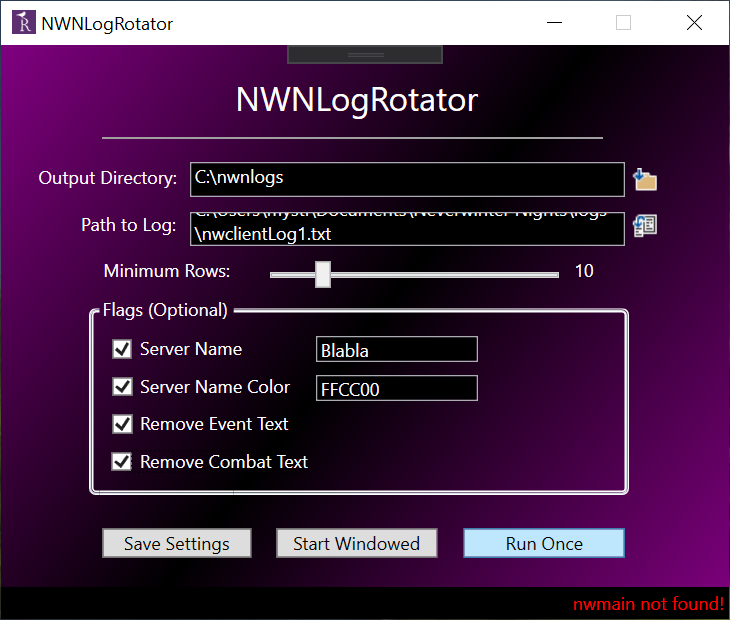
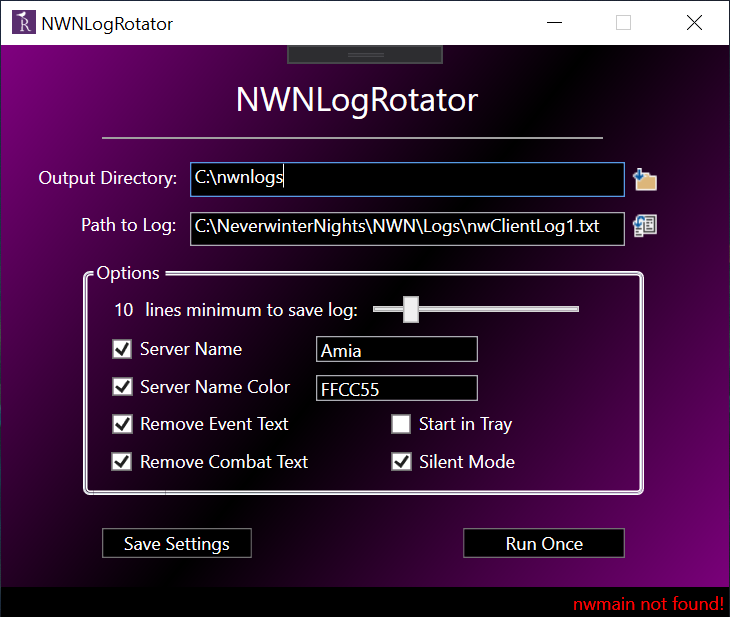
silent mode added, ui re-arranged

diff --git a/NWNLogRotator.xaml b/NWNLogRotator.xaml
@@ -29,7 +29,6 @@
         <CheckBox x:Name="ServerNameColorCheckBox" Content="Server Name Color" Grid.Column="2" HorizontalAlignment="Right" Margin="0,220,292.667,0" VerticalAlignment="Top" RenderTransformOrigin="0.522,-0.045" Checked="ServerNameColorCheckBox_Checked" Unchecked="ServerNameColorCheckBox_Unchecked"/>
         <CheckBox x:Name="ServerNameCheckBox" Content="Server Name" Grid.Column="2" HorizontalAlignment="Right" Margin="0,195,324.667,0" VerticalAlignment="Top" Checked="ServerNameCheckBox_Checked" Unchecked="ServerNameCheckBox_Unchecked"/>
         <Button x:Name="SaveSettingsButton" Content="Save Settings" Grid.Column="2" HorizontalAlignment="Left" Margin="14,322,0,0" VerticalAlignment="Top" Width="100" Click="Button_Click"/>
-        <Button x:Name="TrayButton" Content="" Grid.Column="2" HorizontalAlignment="Left" Margin="130,322,0,0" VerticalAlignment="Top" Width="108" RenderTransformOrigin="2.04,0.867" Click="Button_Click_2"/>
         <StatusBar HorizontalAlignment="Left" Height="31" Margin="0,361,-0.333,0" VerticalAlignment="Top" Width="495" Grid.ColumnSpan="3" Background="Black">
             <TextBlock x:Name="EventStatusTextBlock" TextWrapping="Wrap" Text="event.status" Width="191" RenderTransformOrigin="1.135,0.25" Height="29"/>
             <Separator Margin="0,0,0,-0.333" Width="166" Visibility="Hidden" />
@@ -41,5 +40,7 @@
         <ProgressBar x:Name="StatusBarProgressBar" Grid.Column="2" HorizontalAlignment="Left" Height="10" Margin="130,367,0,0" VerticalAlignment="Top" Width="108" IsIndeterminate="True" Visibility="Collapsed"/>
         <Image x:Name="OutputDirectoryButtonImage" Grid.Column="2" HorizontalAlignment="Left" Height="16" Margin="368,82,0,0" VerticalAlignment="Top" Width="16" RenderTransformOrigin="2.303,1.51" Source="Assets/Images/DownloadFolder_16x.png" MouseDown="Image_MouseDown"/>
         <Image x:Name="PathToLogButtonImage" Grid.Column="2" HorizontalAlignment="Left" Height="16" Margin="368,113,0,0" VerticalAlignment="Top" Width="16" RenderTransformOrigin="2.303,1.51" Source="Assets/Images/AssociationEditor_16x.png" MouseDown="Image_MouseDown2"/>
+        <CheckBox x:Name="TrayCheckBox" Content="Start in Tray" Grid.Column="2" HorizontalAlignment="Right" Margin="0,245,144.667,0" VerticalAlignment="Top" RenderTransformOrigin="0.618,0.109"/>
+        <CheckBox x:Name="SilentCheckBox" Content="Silent Mode" Grid.Column="2" HorizontalAlignment="Right" Margin="0,270,142.667,0" VerticalAlignment="Top" RenderTransformOrigin="0.618,0.109"/>
     </Grid>
 </Window>

diff --git a/NWNLogRotator.xaml.cs b/NWNLogRotator.xaml.cs
@@ -102,7 +102,8 @@ namespace NWNLogRotator
             bool EventText = EventTextCheckBox.IsChecked.GetValueOrDefault();
             bool CombatText = CombatTextCheckBox.IsChecked.GetValueOrDefault();
             string UseTheme = _settings.UseTheme;
-            bool Tray = _settings.Tray;
+            bool Silent = SilentCheckBox.IsChecked.GetValueOrDefault(); ;
+            bool Tray = TrayCheckBox.IsChecked.GetValueOrDefault();
 
             _settings = new Settings(OutputDirectory,
                                               PathToLog,
@@ -112,6 +113,7 @@ namespace NWNLogRotator
                                               EventText,
                                               CombatText,
                                               UseTheme,
+                                              Silent,
                                               Tray
                                             );
 
@@ -136,7 +138,6 @@ namespace NWNLogRotator
         {
             if (_settings.Tray == true)
             {
-                TrayButton.Content = "Start in Tray";
                 if (doMinimize == true)
                 {
                     WindowState = WindowState.Minimized;
@@ -145,7 +146,6 @@ namespace NWNLogRotator
             }
             else
             {
-                TrayButton.Content = "Start Windowed";
                 ni.Visible = false;
             }
         }
@@ -209,6 +209,8 @@ namespace NWNLogRotator
             }
             EventTextCheckBox.IsChecked = _settings.EventText;
             CombatTextCheckBox.IsChecked = _settings.CombatText;
+            SilentCheckBox.IsChecked = _settings.Silent;
+            TrayCheckBox.IsChecked = _settings.Tray;
 
             if (_settings.UseTheme == "light")
             {
@@ -233,8 +235,8 @@ namespace NWNLogRotator
 
             RunOnceButton.Background = Brushes.Black;
             RunOnceButton.Foreground = new SolidColorBrush(Colors.White);
-            TrayButton.Background = Brushes.Black;
-            TrayButton.Foreground = new SolidColorBrush(Colors.White);
+            TrayCheckBox.Foreground = new SolidColorBrush(Colors.White);
+            SilentCheckBox.Foreground = new SolidColorBrush(Colors.White);
             SaveSettingsButton.Background = Brushes.Black;
             SaveSettingsButton.Foreground = new SolidColorBrush(Colors.White);
             OutputDirectoryTextBox.Background = Brushes.Black;
@@ -265,8 +267,8 @@ namespace NWNLogRotator
 
             RunOnceButton.Background = Brushes.White;
             RunOnceButton.Foreground = new SolidColorBrush(Colors.Black);
-            TrayButton.Background = Brushes.White;
-            TrayButton.Foreground = new SolidColorBrush(Colors.Black);
+            TrayCheckBox.Foreground = new SolidColorBrush(Colors.Black);
+            SilentCheckBox.Foreground = new SolidColorBrush(Colors.Black);
             SaveSettingsButton.Background = Brushes.White;
             SaveSettingsButton.Foreground = new SolidColorBrush(Colors.Black);
             OutputDirectoryTextBox.Background = Brushes.White;
@@ -298,15 +300,22 @@ namespace NWNLogRotator
 
             if (_filepathandname != "")
             {
-                MessageBoxResult _messageBoxResult = MessageBox.Show("The log file has been generated successfully. Would you like to open the log file now?",
+                if(_settings.Silent == false)
+                {
+                    MessageBoxResult _messageBoxResult = MessageBox.Show("The log file has been generated successfully. Would you like to open the log file now?",
                             "Success!",
                             MessageBoxButton.YesNo,
                             MessageBoxImage.Question);
 
-                if (_messageBoxResult == MessageBoxResult.Yes)
-                    System.Diagnostics.Process.Start(_filepathandname);
+                    if (_messageBoxResult == MessageBoxResult.Yes)
+                        System.Diagnostics.Process.Start(_filepathandname);
 
-                return true;
+                    return true;
+                }
+                else
+                {
+                    return true;
+                }
             }
 
             return false;
@@ -397,9 +406,9 @@ namespace NWNLogRotator
             {
                 SavedLogResult = NWNLog_Save(_settings);
             });
-
-            SavedResult_Callback(SavedLogResult);
+       
             SaveToggle_Event();
+            SavedResult_Callback(SavedLogResult);
         }
 
         private void SavedResult_Callback(bool result)
@@ -467,6 +476,5 @@ namespace NWNLogRotator
                     break;
             }
         }
-
     }
 }

diff --git a/Components/FileHandler.cs b/Components/FileHandler.cs
@@ -11,7 +11,7 @@ namespace NWNLogRotator.Components
     public partial class FileHandler : Component
     {
         Settings _settings;
-        int _expectedSettingsCount = 9;
+        int _expectedSettingsCount = 10;
 
         public FileHandler()
         {
@@ -52,6 +52,7 @@ namespace NWNLogRotator.Components
                                         "EventText=" + _settings.EventText + "\n" +
                                         "CombatText=" + _settings.CombatText + "\n" +
                                         "UseTheme=" + _settings.UseTheme + "\n" +
+                                        "Silent=" + _settings.Silent + "\n" +
                                         "Tray=" + _settings.Tray;
             return NewSettingsFile;
         }
@@ -71,9 +72,9 @@ namespace NWNLogRotator.Components
         {
             string iniPath = CurrentProgramDirectory_Get() + "NWNLogRotator.ini";
 
-            string DefaultSettings = SettingsFile_Linter();
+            string CurrentSettings = SettingsFile_Linter();
 
-            File.WriteAllText(iniPath, DefaultSettings);
+            File.WriteAllText(iniPath, CurrentSettings);
 
             ReadSettingsIni();
         }
@@ -90,6 +91,7 @@ namespace NWNLogRotator.Components
             bool EventText = false;
             bool CombatText = false;
             string UseTheme = "";
+            bool Silent = false;
             bool Tray = false;
 
             int Count = 0;
@@ -138,6 +140,11 @@ namespace NWNLogRotator.Components
                     UseTheme = ParameterValue;
                     Count += 1;
                 }
+                if (line.IndexOf("Silent=") != -1)
+                {
+                    Silent = bool.Parse(ParameterValue);
+                    Count += 1;
+                }
                 if (line.IndexOf("Tray=") != -1)
                 {
                     Tray = bool.Parse(ParameterValue);
@@ -153,13 +160,21 @@ namespace NWNLogRotator.Components
                                               EventText,
                                               CombatText,
                                               UseTheme,
+                                              Silent,
                                               Tray
                                             );
-
-            if (Count != _expectedSettingsCount)
+            if(Count == 0)
             {
                 MessageBox.Show("Default Configuration Loaded:\n\nPlease ensure NWNLogRotator.ini is properly formatted, and has " + _expectedSettingsCount + " parameters present.\n\nIf it is deleted, NWNLogRotator will create a new one automatically with the default settings.",
                                 "Invalid Settings File!",
+                                MessageBoxButton.OK,
+                                MessageBoxImage.Warning);
+                return false;
+            }
+            else if (Count != _expectedSettingsCount)
+            {
+                MessageBox.Show("The application detected a change in configuration.\n\nPlease verify and save the new NWNLogRotator.ini configuration.",
+                                "Save Settings!",
                                 MessageBoxButton.OK,
                                 MessageBoxImage.Warning);
                 return false;

diff --git a/Classes/Settings.cs b/Classes/Settings.cs
@@ -10,6 +10,7 @@
         public bool EventText;
         public bool CombatText;
         public string UseTheme;
+        public bool Silent;
         public bool Tray;
 
         // create singleton
@@ -26,6 +27,7 @@
             this.EventText = false;
             this.CombatText = false;
             this.UseTheme = "light";
+            this.Silent = false;
             this.Tray = false;
         }
 
@@ -38,6 +40,7 @@
                         bool EventText,
                         bool CombatText,
                         string UseTheme,
+                        bool Silent,
                         bool Tray)
         {
             this.OutputDirectory = OutputDirectory;
@@ -48,6 +51,7 @@
             this.EventText = EventText;
             this.CombatText = CombatText;
             this.UseTheme = UseTheme;
+            this.Silent = Silent;
             this.Tray = Tray;
         }
 

diff --git a/Properties/AssemblyInfo.cs b/Properties/AssemblyInfo.cs
@@ -49,5 +49,5 @@ using System.Windows;
 // You can specify all the values or you can default the Build and Revision Numbers
 // by using the '*' as shown below:
 // [assembly: AssemblyVersion("1.0.*")]
-[assembly: AssemblyVersion("0.0.3.0")]
-[assembly: AssemblyFileVersion("0.0.3.0")]
+[assembly: AssemblyVersion("0.0.3.1")]
+[assembly: AssemblyFileVersion("0.0.3.1")]
